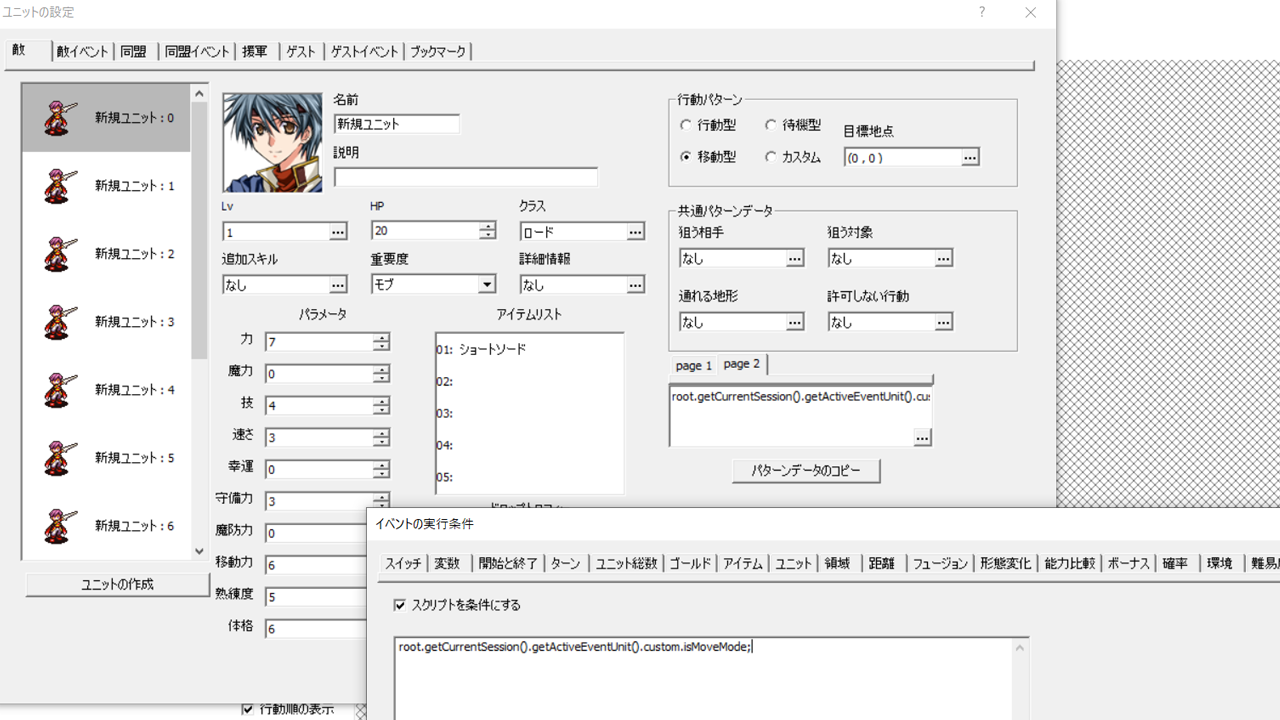
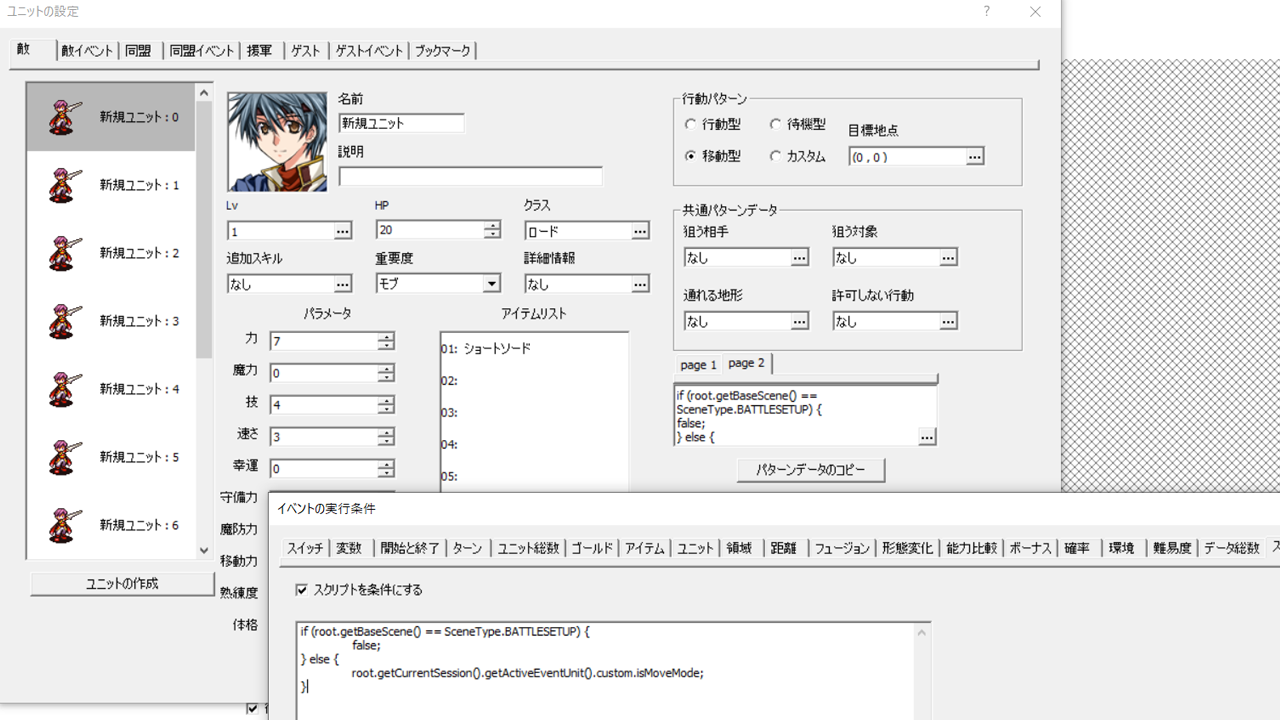
updated

Changed region(s): [[0.0, 0.0, 1.0, 1.0], [0.0, 0.0, 0.0625, 0.0306], [0.75, 0.2139, 0.7812, 0.2444]]

diff --git a/視界システム/視界システム.js b/視界システム/視界システム.js
@@ -19,7 +19,11 @@
   ※たとえばViewLength:5とすると，自分から5マス離れたところまでが視界となります。
 　
   ② 敵ユニットの行動パターンで，移動型（or 待機型）の条件を以下のようにする
-　　root.getCurrentSession().getActiveEventUnit().custom.isMoveMode;
+　　if (root.getBaseScene() == SceneType.BATTLESETUP) {
+		false;
+	} else {
+		root.getCurrentSession().getActiveEventUnit().custom.isMoveMode;
+	}
 　※条件を満たさないときは行動型になるようにすればOK
 　※同梱の「設定：行動パターン.png」をご覧ください。
 
